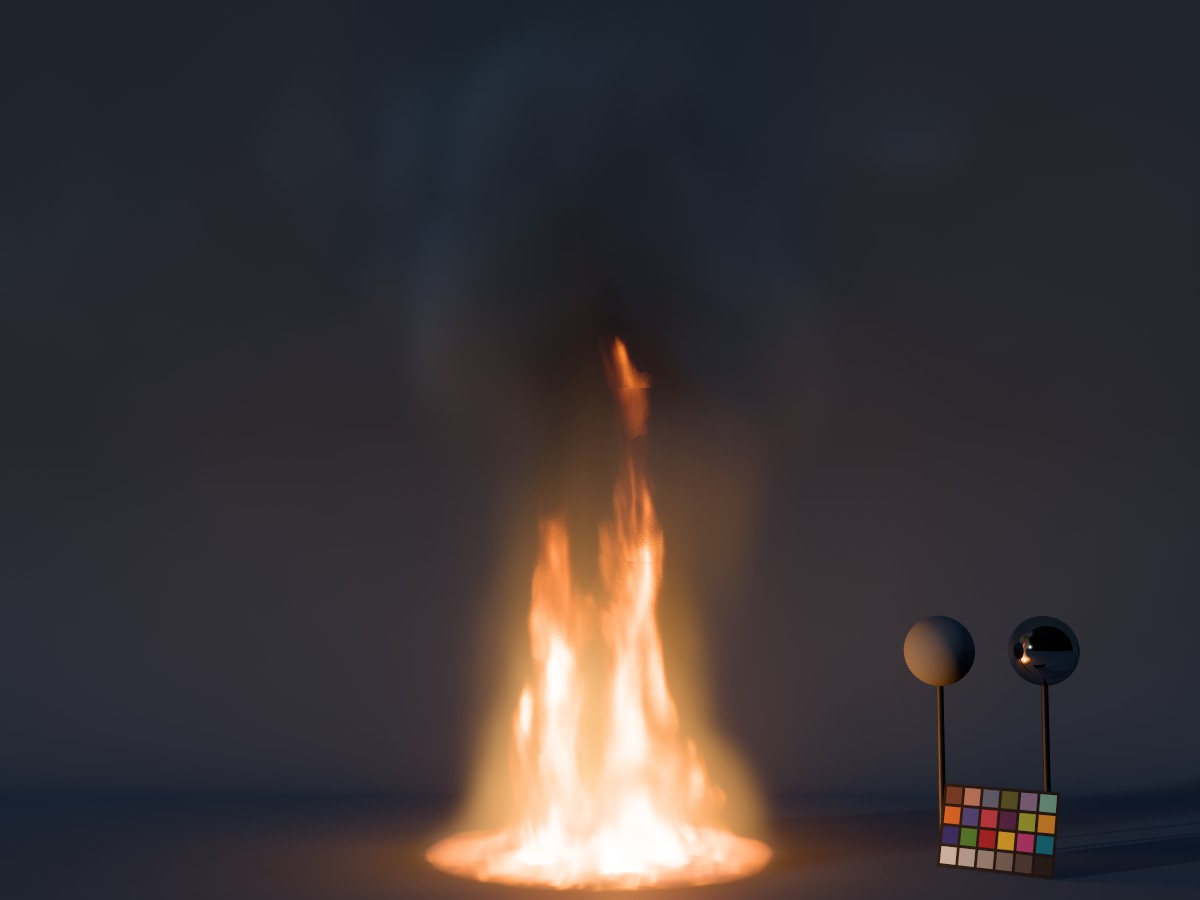
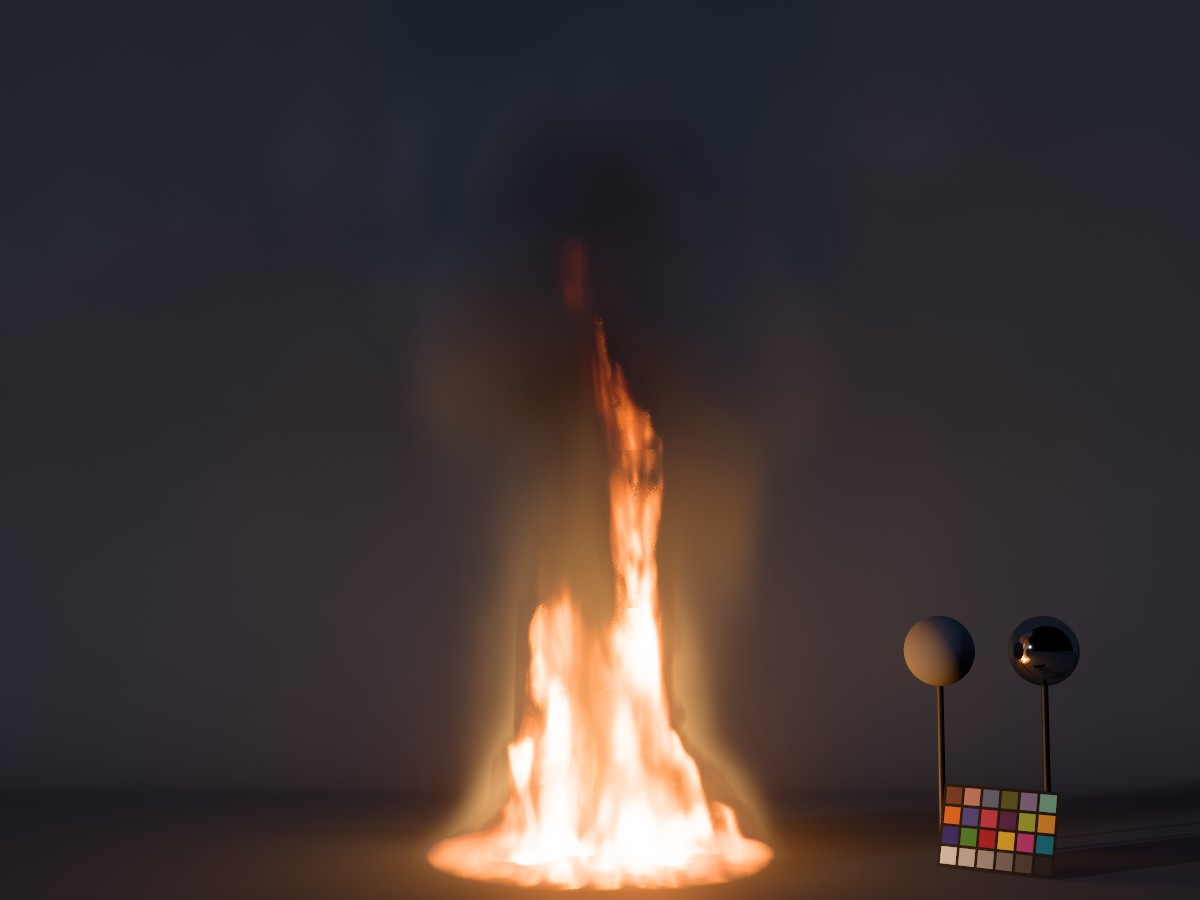
Pyro lab: the bonfire's flames and cyc as the path-traced reference has them
Split by the reference (now able to leave out all scattering in the gas: ptParts 16, development), the bonfire's
flames glowed as the reference's do; what they lacked was the light their soot scatters of its own glow. In a thick
flame the light about the soot nears its blackbody radiance from every side, so the flame glows at the full radiance
whatever its albedo (Kirchhoff); the live flames glowed only (1 - albedo) of it. Glowing soot now scatters
glow (1 - exp(-sig l)) of its own glow, l a bed radius, in place of that share of the fire's far light
(flameSelfLit), in the camera's march and the chrome ball's.

The cyc's wall stands as tall and wide as the view, so every point of the cyc sees the sky only in front (a
cosine-weighted (n.y + n.z) / 2 of it: half for the floor, which took all of it) and the cyc itself in the rest: the
floor lights the wall and the wall the floor (cycSeen), and the fire-lit floor about the fire, from the light volume's
bottom layer, lights the wall (cycFireBounce). The floor's light into the smoke takes the same half sky and the wall.

The accumulation blends in linear light, its clamp's range still found compressed: blended compressed, a flickering
flame averaged a sixth darker than its own frames, paused or running.

Against the reference, per unit of exposure (the probes now read the fire at the paused frame before the meter snaps,
and keep each trace's EV), bonfire regions deployed -> now: flames 0.80 -> 0.99, cyc 0.90 -> 0.95, far floor
[…]

Changed region(s): [[0.37, 0.3422, 0.6475, 0.9956], [0.4625, 0.28, 0.4933, 0.3422]]

diff --git a/components/PyroLab.tsx b/components/PyroLab.tsx
@@ -66,7 +66,7 @@ const TECH_NOTES: [string, string][] = [
   ],
   [
     'Flames',
-    'Most of a fire’s light is its soot’s glow. Hot soot emits what it absorbs times the blackbody radiance of its temperature (Kirchhoff’s law), so a flame’s colour and brightness follow from the simulated temperature and soot alone: Planck’s law through the CIE colour matching functions, in absolute units (a blackbody at 2042 K comes out at 600,000 cd/m², the old definition of the candle). The colours are worked in ACEScg, whose primaries hold a blackbody’s colour at every temperature a flame reaches, where Rec.709’s lose its blue below about 1900 K. The soot’s extinction is the measured 8.7 m²/g of flame smoke and its albedo 0.25, and it absorbs blue more than red (as 1/λ), so it reddens what shines through it. Below about 1000 K its glow is too faint to see, which is where the visible flame ends. A cell’s temperature is an average, and a blackbody’s glow climbs so steeply with temperature that the average glow is far from the glow at the average temperature (the turbulence-radiation interaction), so the renderer adds the temperature fluctuation finer than the grid: its size from the resolved temperature gradient, as large-eddy simulations model a subgrid variance (Pierce and Moin), only its shape from a noise that rises with the flames and churns (Flame detail scales it; 0 renders the cell averages). For the same reason, where fuel is burning the soot radiates at the temperature of the flame sheet it forms in, about 1400 K, rather than its cell’s mean: the burning happens in sheets far thinner than a cell, and the cell spreads their heat over all of it (a thin flame along a burning surface would otherwise never glow). The burning gives off light of its own too: molecules formed excited in the reactions give it up as CH’s blue at 431 nm, C2’s green Swan bands and a faint CO2 continuum (chemiluminescence), in proportion to the heat released. It is the blue of a gas flame, about a ten-thousandth of a lumen per watt of heat (an estimate: no measurement of it turned up), far fainter than glowing soot, so it shows only where there is no soot yet. And soot takes some 20 ms in the hot gas to form (Kumfer, Skeen and Axelbaum), so where burning has only begun, at the flame’s base, the gas is still clear. A wood fire’s soot hides nearly all of the blue at the grid’s scale; a fuel that makes no soot burns all blue (the Alcohol fire), too dim to see in daylight, as alcohol fires are. The fire lights its own smoke, the floor and everything near it: its emitted light is summed on the GPU every step in eight slices of its height, each a point light at its brightness-weighted centre, and each point of the smoke gathers them through the soot in the way, so dense smoke shadows the fire’s light as it does the sun’s; the floor and the balls take the same shadow. The light is summed as the flames are drawn, from the interpolated gas at eight points in each cell rather than each cell’s own temperature: the glow climbs so steeply with temperature that the hottest cells, at the bed, gave several times the light the flames show (the path-traced reference found it). Within a slice, its soot is mixed with its own glow, and the share of the glow that gets out is a glowing sphere’s of that optical depth (the escape probability).',
+    'Most of a fire’s light is its soot’s glow. Hot soot emits what it absorbs times the blackbody radiance of its temperature (Kirchhoff’s law), so a flame’s colour and brightness follow from the simulated temperature and soot alone: Planck’s law through the CIE colour matching functions, in absolute units (a blackbody at 2042 K comes out at 600,000 cd/m², the old definition of the candle). The colours are worked in ACEScg, whose primaries hold a blackbody’s colour at every temperature a flame reaches, where Rec.709’s lose its blue below about 1900 K. The soot’s extinction is the measured 8.7 m²/g of flame smoke and its albedo 0.25, and it absorbs blue more than red (as 1/λ), so it reddens what shines through it. Below about 1000 K its glow is too faint to see, which is where the visible flame ends. A cell’s temperature is an average, and a blackbody’s glow climbs so steeply with temperature that the average glow is far from the glow at the average temperature (the turbulence-radiation interaction), so the renderer adds the temperature fluctuation finer than the grid: its size from the resolved temperature gradient, as large-eddy simulations model a subgrid variance (Pierce and Moin), only its shape from a noise that rises with the flames and churns (Flame detail scales it; 0 renders the cell averages). For the same reason, where fuel is burning the soot radiates at the temperature of the flame sheet it forms in, about 1400 K, rather than its cell’s mean: the burning happens in sheets far thinner than a cell, and the cell spreads their heat over all of it (a thin flame along a burning surface would otherwise never glow). The burning gives off light of its own too: molecules formed excited in the reactions give it up as CH’s blue at 431 nm, C2’s green Swan bands and a faint CO2 continuum (chemiluminescence), in proportion to the heat released. It is the blue of a gas flame, about a ten-thousandth of a lumen per watt of heat (an estimate: no measurement of it turned up), far fainter than glowing soot, so it shows only where there is no soot yet. And soot takes some 20 ms in the hot gas to form (Kumfer, Skeen and Axelbaum), so where burning has only begun, at the flame’s base, the gas is still clear. A wood fire’s soot hides nearly all of the blue at the grid’s scale; a fuel that makes no soot burns all blue (the Alcohol fire), too dim to see in daylight, as alcohol fires are. The fire lights its own smoke, the floor and everything near it: its emitted light is summed on the GPU every step in eight slices of its height, each a point light at its brightness-weighted centre, and each point of the smoke gathers them through the soot in the way, so dense smoke shadows the fire’s light as it does the sun’s; the floor and the balls take the same shadow. The light is summed as the flames are drawn, from the interpolated gas at eight points in each cell rather than each cell’s own temperature: the glow climbs so steeply with temperature that the hottest cells, at the bed, gave several times the light the flames show (the path-traced reference found it). Within a slice, its soot is mixed with its own glow, and the share of the glow that gets out is a glowing sphere’s of that optical depth (the escape probability). Glowing soot also scatters its own glow: where it is thick the light about it nears its blackbody radiance, so a thick flame glows at the full radiance whatever its albedo (Kirchhoff’s law), where it glowed only the share its soot does not scatter (the bonfire’s flames, a fifth dark against the path-traced reference).',
   ],
   [
     'Detail',
@@ -87,11 +87,11 @@ const TECH_NOTES: [string, string][] = [
   ],
   [
     'Rendering',
-    'Each pixel marches through the volume and integrates each step in closed form, in photometric units (cd/m²), each colour channel on its own. Sunlight reaches every point through the optical depth toward the sun, recomputed each frame on a half-resolution grid from the smoke the camera sees (with the smoke upres on, its finer grid, averaged over the coarse grid’s cells); multiple-scattering octaves stand in for light bouncing inside the smoke, each weighted by the chance that light scattered once meets more smoke (toward the sun, up and down) and is scattered again rather than absorbed (its albedo), so pale steam takes far more of it than soot. The sky lights the smoke through the smoke around it (its mean transmittance in five directions), by the share of the scattering the sky fills (smoke that scatters forward, seen from below, takes more than half), and bounces inside it too; the floor lights it from below, as the floor straight under it is lit. The floor takes the smoke’s shadow and the fire’s light. Between cells the smoke and soot are sampled with a cubic B-spline (eight trilinear fetches placed so the hardware’s blend gives the spline’s weights, after Sigg and Hadwiger), smooth where trilinear interpolation creases at every cell face; the Shading tab switches back to trilinear, which renders in about two thirds of the time. Each frame starts its march at an offset from spatiotemporal blue noise (Wolfe, Morrical, Akenine-Möller and Ramamoorthi 2022), made for the lab by void and cluster: each frame’s offsets are blue noise in space, and each pixel’s offsets from frame to frame are blue noise in time, which cuts the noise of the first one to four accumulated frames by 9 to 16% against blue noise stepped by the golden ratio. Frames accumulate: each blends into a running history, first clamped to the range of the new frame’s neighbourhood so what moves is not smeared behind it, which averages the sampling noise away. A paused frame keeps accumulating until it settles.',
+    'Each pixel marches through the volume and integrates each step in closed form, in photometric units (cd/m²), each colour channel on its own. Sunlight reaches every point through the optical depth toward the sun, recomputed each frame on a half-resolution grid from the smoke the camera sees (with the smoke upres on, its finer grid, averaged over the coarse grid’s cells); multiple-scattering octaves stand in for light bouncing inside the smoke, each weighted by the chance that light scattered once meets more smoke (toward the sun, up and down) and is scattered again rather than absorbed (its albedo), so pale steam takes far more of it than soot. The sky lights the smoke through the smoke around it (its mean transmittance in five directions), by the share of the scattering the sky fills (smoke that scatters forward, seen from below, takes more than half), and bounces inside it too; the floor lights it from below, as the floor straight under it is lit. The floor takes the smoke’s shadow and the fire’s light. Between cells the smoke and soot are sampled with a cubic B-spline (eight trilinear fetches placed so the hardware’s blend gives the spline’s weights, after Sigg and Hadwiger), smooth where trilinear interpolation creases at every cell face; the Shading tab switches back to trilinear, which renders in about two thirds of the time. Each frame starts its march at an offset from spatiotemporal blue noise (Wolfe, Morrical, Akenine-Möller and Ramamoorthi 2022), made for the lab by void and cluster: each frame’s offsets are blue noise in space, and each pixel’s offsets from frame to frame are blue noise in time, which cuts the noise of the first one to four accumulated frames by 9 to 16% against blue noise stepped by the golden ratio. Frames accumulate: each blends into a running history, first clamped to the range of the new frame’s neighbourhood so what moves is not smeared behind it, which averages the sampling noise away. The blend is in linear light (blended in a compressed one, as is common to keep bright pixels from flickering, a flame averaged a sixth darker than its own frames). A paused frame keeps accumulating until it settles.',
   ],
   [
     'Camera',
-    'Exposed like a real camera. Light is set as a light meter reads it, the sun and sky as incident readings (2.5 × 2^EV lux), and the exposure is the camera’s EV at ISO 100, saturating at 1.2 × 2^EV cd/m² (Frostbite’s physically based camera). The white balance is a Bradford chromatic adaptation from a blackbody of the chosen temperature to the display’s white, the step Nguyen and colleagues took for fire; then the Lookdev lab’s own view transforms: ACES 2.0 (baked from OpenColorIO 2.5) by default, or AgX, Khronos PBR Neutral or a plain sRGB curve. The shutter is a film camera’s at 24 frames a second, 180 degrees by default (open 1/48 s): each sample along a ray takes its own moment within it and reads the gas where the flow had it then, so fast flames streak as they do on film. The lens scatters a few percent of the light it passes (4% by default) into a wide, soft glare, by a chain of blurs that keeps the light’s energy (Jimenez’s, from Call of Duty), which shows only around what is far brighter than its surroundings, as the flames’ cores are. Auto exposure meters the scene as a camera in program mode would: the sun and sky as an incident meter reads them, but never brighter than the fire allows (read from its flames as they are drawn: EV 7.5 to 8.5 for an 80 kW campfire as it puffs, a third of a stop more for each doubling of its light), eased over a second so the flames’ puffing does not pump it; its brightest flames saturate to yellow-white, as they do in photographs. The background is a studio’s black, or the sky (its radiance the sky’s illuminance over π, a little brighter toward the horizon) over a floor that runs into the horizon’s haze, or the Lookdev lab’s cyc in its charcoal or gray, the floor sweeping up into a wall behind the fire, lit by the fire too.',
+    'Exposed like a real camera. Light is set as a light meter reads it, the sun and sky as incident readings (2.5 × 2^EV lux), and the exposure is the camera’s EV at ISO 100, saturating at 1.2 × 2^EV cd/m² (Frostbite’s physically based camera). The white balance is a Bradford chromatic adaptation from a blackbody of the chosen temperature to the display’s white, the step Nguyen and colleagues took for fire; then the Lookdev lab’s own view transforms: ACES 2.0 (baked from OpenColorIO 2.5) by default, or AgX, Khronos PBR Neutral or a plain sRGB curve. The shutter is a film camera’s at 24 frames a second, 180 degrees by default (open 1/48 s): each sample along a ray takes its own moment within it and reads the gas where the flow had it then, so fast flames streak as they do on film. The lens scatters a few percent of the light it passes (4% by default) into a wide, soft glare, by a chain of blurs that keeps the light’s energy (Jimenez’s, from Call of Duty), which shows only around what is far brighter than its surroundings, as the flames’ cores are. Auto exposure meters the scene as a camera in program mode would: the sun and sky as an incident meter reads them, but never brighter than the fire allows (read from its flames as they are drawn: EV 7.5 to 8.5 for an 80 kW campfire as it puffs, a third of a stop more for each doubling of its light), eased over a second so the flames’ puffing does not pump it; its brightest flames saturate to yellow-white, as they do in photographs. The background is a studio’s black, or the sky (its radiance the sky’s illuminance over π, a little brighter toward the horizon) over a floor that runs into the horizon’s haze, or the Lookdev lab’s cyc in its charcoal or gray, the floor sweeping up into a wall behind the fire, lit by the fire too. The cyc’s wall hides the half of the sky behind it from the cyc itself, which sees the rest of the cyc there: the floor lights the wall and the wall the floor, and the fire-lit floor lights the wall behind the fire.',
   ],
   [
     'Environments',
@@ -103,7 +103,7 @@ const TECH_NOTES: [string, string][] = [
   ],
   [
     'Path-traced reference',
-    'Paused, the Path trace button traces the same frame with its light carried exactly, one path a pixel each frame, averaged, behind a wipe against the live render (drag it). The gas is the live render’s own, step for step: its density, detail and subgrid flame temperature, the soot formed by now and the flame’s blue light, each path at its own moment of the shutter. What the reference carries exactly is what the live render takes shortcuts with: light scattered any number of times through the smoke (the live render folds multiple scattering into octaves of the sun’s light); the fire’s light from the flames themselves, shadowed by the smoke on the way (the live render’s is eight point lights through a light volume at half resolution); the sky through the smoke in every direction (not only straight up); an HDR map in full (not nine spherical harmonics). At every scattering and surface a path samples the sun’s disc, a map’s key or the rig’s softboxes, and the flames: a point drawn in one of eight slices of the fire’s height by its light, chosen from eight candidates in proportion to what each would bring (resampled importance sampling, after Talbot, Cline and Egbert). Paths end by Russian roulette, and the reference stops at 4,096 paths a pixel. The surfaces are the live render’s materials, simplified (the chrome ball a mirror, the rest a matte base under a glossy layer). Checked with it, the live render’s fire light is now within about 45% of the reference’s across the presets (an oil fire in daylight within 15%; a campfire’s smoke and floor up to 45% darker), where it was up to seven times too bright. The smoke lit by the sun was 30 to 60% too bright, dark smoke the most, from the octaves, which added the same three quarters again to thin smoke as to thick and to soot as to steam. Split by where the light comes from (the reference can leave out the floor, the sky or the sun, or keep only light scattered once), the smoke’s light showed four more gaps. Its shadows came from the coarse grid while the camera saw the finer upres smoke, so the densest smoke caught a third too much sun. The sky came through the depth straight up only, so the middle of a plume took a fifth too much and the smoke under its cap a third too little. And the sky’s light scattered more than once (5 to 10% of a plume’s light) and the floor’s (1 to 9%) were missing. With those fixed and the octaves fitted to plumes of albedo 0.2, 0.6 and 0.95, a plume’s thin edges are within 8% of the reference, where they were 10% short, and the error over the smoke presets falls by half to 70% (a little in the fire presets, where the flames’ own gaps remain).',
+    'Paused, the Path trace button traces the same frame with its light carried exactly, one path a pixel each frame, averaged, behind a wipe against the live render (drag it). The gas is the live render’s own, step for step: its density, detail and subgrid flame temperature, the soot formed by now and the flame’s blue light, each path at its own moment of the shutter. What the reference carries exactly is what the live render takes shortcuts with: light scattered any number of times through the smoke (the live render folds multiple scattering into octaves of the sun’s light); the fire’s light from the flames themselves, shadowed by the smoke on the way (the live render’s is eight point lights through a light volume at half resolution); the sky through the smoke in every direction (not only straight up); an HDR map in full (not nine spherical harmonics). At every scattering and surface a path samples the sun’s disc, a map’s key or the rig’s softboxes, and the flames: a point drawn in one of eight slices of the fire’s height by its light, chosen from eight candidates in proportion to what each would bring (resampled importance sampling, after Talbot, Cline and Egbert). Paths end by Russian roulette, and the reference stops at 4,096 paths a pixel. The surfaces are the live render’s materials, simplified (the chrome ball a mirror, the rest a matte base under a glossy layer). Checked with it, the live render’s fire light is now within about 45% of the reference’s across the presets (an oil fire in daylight within 15%; a campfire’s smoke and floor up to 45% darker), where it was up to seven times too bright. The smoke lit by the sun was 30 to 60% too bright, dark smoke the most, from the octaves, which added the same three quarters again to thin smoke as to thick and to soot as to steam. Split by where the light comes from (the reference can leave out the floor, the sky or the sun, or keep only light scattered once), the smoke’s light showed four more gaps. Its shadows came from the coarse grid while the camera saw the finer upres smoke, so the densest smoke caught a third too much sun. The sky came through the depth straight up only, so the middle of a plume took a fifth too much and the smoke under its cap a third too little. And the sky’s light scattered more than once (5 to 10% of a plume’s light) and the floor’s (1 to 9%) were missing. With those fixed and the octaves fitted to plumes of albedo 0.2, 0.6 and 0.95, a plume’s thin edges are within 8% of the reference, where they were 10% short, and the error over the smoke presets falls by half to 70%. On the bonfire, with scattering in the gas left out of both, the live flames’ glow matched the reference’s; what they lacked was the light their soot scatters of its own glow, and the cyc’s floor took the whole sky though the wall hides half of it, and no light from the wall. With those in, the bonfire’s flames are within 2% of the reference and its cyc within 5%, where they were 20% and 10% short, and its far floor, a fifth too bright, is within 5%; the wall and smoke just behind the fire are still about a sixth dark. A fire in wind’s error falls by more than two thirds.',
   ],
   [
     'Export',

diff --git a/components/pyro/wgsl.ts b/components/pyro/wgsl.ts
@@ -3022,6 +3022,52 @@ fn ballSurface(ph: vec3<f32>, rd: vec3<f32>, ch: vec3<f32>, fireColour: vec3<f32
 }
 
 // The floor's (or the cyc's) light toward the camera, cd/m2: at pf, facing nf, met tFloor along rd.
+// The cyc (the gray and charcoal backgrounds): its wall stands as tall and wide as the view behind the fire, so every
+// point of it sees the sky only in front, the quarter of directions up and toward the camera (a cosine-weighted
+// (n.y + n.z) / 2 of it: half for the floor and for the wall, where the open floor would see all of it), and the rest
+// of what it sees is the cyc itself. Against the path-traced reference the floor in front took the whole sky and came
+// out up to a quarter too bright, and the wall, without the floor's light, a tenth too dark.
+fn cycOn() -> bool { return R.scene.x > 1.5 && !envOn(); }
+// What the rest of the cyc gives a point p of it facing n (lux on that rest): the floor sees the wall, lit by its open
+// quarter of sky, the sun and the fire straight on (at the fire's height behind p); the wall sees the floor, lit by the
+// sky and the sun (the fire's light on the floor comes in through cycFireBounce); the sweep between, some of each.
+fn cycSeen(p: vec3<f32>, n: vec3<f32>) -> vec3<f32> {
+  let other = vec3<f32>(0.0, n.z, n.y);
+  var e = R.skyCol.xyz * 0.5 + R.sunCol.xyz * max(dot(other, R.sunDir.xyz), 0.0);
+  if (R.fire.x > 0.5) {
+    let c = fireLight[1].xyz;
+    let d = c - vec3<f32>(p.x, c.y, CYC_Z - CYC_R);
+    let d2 = dot(d, d) + BAND_R2;
+    e += other.z * fireLight[0].xyz * P.grid.x * P.grid.x * P.grid.x * max(d.z, 0.0) / (sqrt(d2) * d2);
+  }
+  return e;
+}
+// The fire-lit floor about the fire as a light on a point p facing n (lux): a 6 x 4 grid of floor patches, 3 m across
+// the fire's centre by the domain's depth, each a Lambertian of the cyc's albedo lit by the fire's light on the floor
+// there (the light volume's bottom layer). (The wall behind a bonfire takes a tenth to a fifth of its light so.)
+fn cycFireBounce(p: vec3<f32>, n: vec3<f32>, fireColour: vec3<f32>) -> vec3<f32> {
+  if (R.fire.x < 0.5) { return vec3<f32>(0.0); }
+  let lo = P.origin.xyz;
+  let hi = domainHi();
+  let c = fireLight[1].xyz;
+  let fy = 0.5 / f32(textureDimensions(light2).y);
+  let pw = 0.5;
+  let pd = (hi.z - lo.z) / 4.0;
+  var e = 0.0;
+  for (var i = 0; i < 6; i++) {
+    for (var j = 0; j < 4; j++) {
+      let q = vec3<f32>(c.x + (f32(i) - 2.5) * pw, 0.0, lo.z + (f32(j) + 0.5) * pd);
+      let ux = (q.x - lo.x) / (hi.x - lo.x);
+      if (ux < 0.0 || ux > 1.0) { continue; }
+      let ef = 1000.0 * textureSampleLevel(light2, samp, vec3<f32>(ux, fy, (q.z - lo.z) / (hi.z - lo.z)), 0.0).w;
+      let d = q - p;
+      let d2 = max(dot(d, d), 0.04);
+      e += ef * max(-d.y, 0.0) * max(dot(n, d), 0.0) / (d2 * d2);
+    }
+  }
+  return fireColour * R.floorCol.x * INV_PI * e * pw * pd;
+}
+
 fn floorLight(pf: vec3<f32>, nf: vec3<f32>, rd: vec3<f32>, tFloor: f32, ch: vec3<f32>, fireColour: vec3<f32>) -> vec3<f32> {
   let sun = R.sunDir.xyz;
   let rimDir = R.rimDir.xyz;
@@ -3071,9 +3117,16 @@ fn floorLight(pf: vec3<f32>, nf: vec3<f32>, rd: vec3<f32>, tFloor: f32, ch: vec3
   }
   if (seen > 0.0) { fireLux *= clamp(1000.0 * textureSampleLevel(light, samp, uvwOf(q), 0.0).w / seen, 0.0, 1.0); }
   let fireE = fireColour * fireLux;
-  // The sky on a surface facing nf: the flat sky's open half (all of it on the floor), or the environment.
-  let skyE = select(R.skyCol.xyz * (0.5 + 0.5 * nf.y), envIrradiance(nf), envOn());
-  var E = R.sunCol.xyz * max(dot(nf, sun), 0.0) * shadow + skyE * skyVis * ballSky + fireE;
+  // The sky on a surface facing nf: the flat sky's open half (all of it on the floor; on the cyc, its open quarter, and
+  // the rest of the cyc), or the environment.
+  var skyShare = 0.5 + 0.5 * nf.y;
+  var bounce = vec3<f32>(0.0);
+  if (cycOn()) {
+    skyShare = 0.5 * (max(nf.y, 0.0) + max(nf.z, 0.0));
+    bounce = R.floorCol.xyz * (1.0 - skyShare) * cycSeen(pf, nf) + cycFireBounce(pf, nf, fireColour);
+  }
+  let skyE = select(R.skyCol.xyz * skyShare, envIrradiance(nf), envOn());
+  var E = R.sunCol.xyz * max(dot(nf, sun), 0.0) * shadow + skyE * skyVis * ballSky + fireE + bounce;
   if (rimOn()) { E += R.rimCol.xyz * max(dot(nf, rimDir), 0.0) * rimShadow(pf, ch) * refShadow(pf, rimDir, 1e9, 0.01, 0.15, -1); }
   var floorL = R.floorCol.xyz * INV_PI * E * fade;
   // Under the sky, the far floor fades into the horizon's haze (aerial perspective, over some 40 m).
@@ -3140,7 +3193,11 @@ fn mirrorView(ro: vec3<f32>, rd: vec3<f32>, jitter: f32, ch: vec3<f32>, fireColo
         if (rimOn()) { S += albedo * R.rimCol.xyz * INV_4PI * exp(-near.tauRim * ch) * pr0; }
         var B = vec3<f32>(0.0);
         let rise = riseOf(s4);
-        if (R.fire.x > 0.5 && (rise > 400.0 || heat > 0.2)) { B = (1.0 - albedo) * planck(radiatingKelvin(T_AMB + rise, heat)); }
+        if (R.fire.x > 0.5 && (rise > 400.0 || heat > 0.2)) {
+          let glow = planck(radiatingKelvin(T_AMB + rise, heat));
+          B = (1.0 - albedo) * glow;
+          S += albedo * flameSelfLit(sig, ch, glow, fireColour * 1000.0 * L.w);
+        }
         let Ts = exp(-sig * ch * ds);
         col += T * (1.0 - Ts) * (S + B);
         T *= Ts;
@@ -3220,6 +3277,16 @@ fn octaves(tauS: vec3<f32>, p0: f32, p1: f32, p2: f32, f: f32, albedo: f32, g: f
   return exp(-tauS) * p0 + a * exp(-b * tauS) * p1 + a * a * exp(-b * b * tauS) * p2;
 }
 
+// Kirchhoff in the flames: soot that glows sits in its own glow, which it scatters as it does any light. Where the soot
+// is thick the light about it nears its blackbody radiance from every side (in a thick flame the radiance is the
+// blackbody's, whatever the albedo), and the fire's light from farther off (fireE, lux) is hidden by it; over l, a bed
+// radius, the light it scatters toward the camera (per unit of albedo, cd/m2) takes glow (1 - exp(-sig l)) of the near
+// glow in place of that share of the far light. Without it a thick flame glowed only (1 - albedo) of its blackbody: the
+// bonfire's flames came out a fifth to two fifths dark against the path-traced reference.
+fn flameSelfLit(sig: f32, ch: vec3<f32>, glow: vec3<f32>, fireE: vec3<f32>) -> vec3<f32> {
+  return (1.0 - exp(-sig * ch * max(P.src.w, 0.1))) * (glow - fireE * INV_4PI);
+}
+
 // The share of a Henyey-Greenstein lobe (anisotropy g) about a direction of elevation sine mu that lies in the upper
 // hemisphere: the lobe's Legendre series against the hemisphere's, 1/2 + 3/4 g mu - 7/16 g^3 P3(mu). Smoke that scatters
 // forward, seen from below against the sky, takes more than half the sky's light toward the camera (a plume's top, a
@@ -3251,7 +3318,10 @@ fn smokeAround(uvw: vec3<f32>, wm: vec3<f32>, L: vec4<f32>, rd: vec3<f32>, g: f3
     let F2 = textureSampleLevel(light2, samp, uvF, 0.0);
     let r2 = R.floorCol.w * R.floorCol.w;
     let fade = select(exp(-dot(wm.xz, wm.xz) / r2) / (1.0 + wm.y * wm.y / r2), 1.0, R.scene.x > 0.5);
-    let floorL = R.floorCol.xyz * INV_PI * fade * (R.sunCol.xyz * F2.z + R.skyCol.xyz * exp(-F2.y * ch) + fireColour * 1000.0 * F2.w);
+    var floorE = R.sunCol.xyz * F2.z + R.skyCol.xyz * exp(-F2.y * ch) + fireColour * 1000.0 * F2.w;
+    // (On the cyc the floor sees half the sky, and the wall.)
+    if (cycOn()) { floorE += R.skyCol.xyz * exp(-F2.y * ch) * -0.5 + R.floorCol.xyz * 0.5 * cycSeen(vec3<f32>(wm.x, 0.0, wm.z), vec3<f32>(0.0, 1.0, 0.0)); }
+    let floorL = R.floorCol.xyz * INV_PI * fade * floorE;
     amb += floorL * (1.0 - domeShare(rd.y, g)) * exp(-tauDown * ch);
   }
   return Around(amb, f, tauDown, L2.x);
@@ -3390,7 +3460,9 @@ fn fs(@builtin(position) fc: vec4<f32>) -> @location(0) vec4<f32> {
         if (R.fire.x > 0.5 && (rise > 400.0 || heat > 0.2)) {
           var kelvin = radiatingKelvin(T_AMB + rise, heat);
           if (R.size.w > 0.0) { kelvin = max(T_AMB, kelvin + subgridKelvin(wm, uvm, rot)); }
-          B = (1.0 - albedo) * planck(kelvin);
+          let glow = planck(kelvin);
+          B = (1.0 - albedo) * glow;
+          S += albedo * flameSelfLit(sig, ch, glow, fireE);
         }
         // Integrated exactly over the step for constant properties (Hillaire 2015).
         let Ts = exp(-sig * ch * ds);
@@ -3862,7 +3934,7 @@ fn pt(@builtin(position) fc: vec4<f32>) -> @location(0) vec4<f32> {
           let sm = max(sc.x, max(sc.y, sc.z));
           let q = 1.0 - exp(-sm * ds);
           if (rand() < q) {
-            if (lastLeg) { dead = true; break; }
+            if (lastLeg || (Q.parts & 16u) != 0u) { dead = true; break; }
             // A collision, somewhere in the step: scattered (the albedo's share; the rest absorbed, in the weight).
             let tc = t + min(-log(max(1.0 - rand() * q, 1e-7)) / sm, ds);
             beta *= albedo * (1.0 - Ts) / q;
@@ -3888,7 +3960,7 @@ fn pt(@builtin(position) fc: vec4<f32>) -> @location(0) vec4<f32> {
       }
     }
     // (Development, Q.parts: 1 no light off the floor but the camera's own sight of it, 2 single scattering in the gas,
-    // 4 no sky, 8 no lights.)
+    // 4 no sky, 8 no lights, 16 no scattering in the gas: its glow, dimmed.)
     if (dead) { break; }
     if (scattered && (Q.parts & 2u) != 0u) { lastLeg = true; }
     if (!scattered) {
@@ -4008,9 +4080,11 @@ fn fs(@builtin(position) fc: vec4<f32>) -> @location(0) vec4<f32> {
 
 // 11. Temporal accumulation, then the camera. Each frame's march is blended into a running history, which averages
 // away the sampling noise (and, with the motion blur, the shutter's moments); the history is first clamped to the range
-// of the current frame's 3 x 3 neighbourhood (in a luminance-compressed space, so a bright flame does not dominate), so
-// what moves or flickers is not smeared behind it. Then the lens's glare (GLARE), and DISPLAY: the white balance, the
-// view transform (the Lookdev lab's own, viewTransforms.ts: ACES 2.0 by default) and a dither against banding.
+// of the current frame's 3 x 3 neighbourhood (found in a luminance-compressed space, so a bright flame does not set it),
+// so what moves or flickers is not smeared behind it, and the blend is in linear light. (Blended compressed, a
+// flickering flame averaged a sixth darker than its frames do.) Then the lens's glare (GLARE), and DISPLAY: the white
+// balance, the view transform (the Lookdev lab's own, viewTransforms.ts: ACES 2.0 by default) and a dither against
+// banding.
 export const RESOLVE = /* wgsl */ `
 ${SIM_COMMON}
 ${RENDER_COMMON}
@@ -4041,12 +4115,11 @@ fn fs(@builtin(position) fc: vec4<f32>) -> @location(0) vec4<f32> {
       hi = max(hi, q);
     }
   }
-  var blended = cur;
   if (T.x > 0.5) {
     let h = clamp(squash(textureLoad(history, p, 0).xyz), lo, hi);
-    blended = mix(h, cur, T.y);
+    return vec4<f32>(mix(unsquash(h), unsquash(cur), T.y), 1.0);
   }
-  return vec4<f32>(unsquash(blended), 1.0);
+  return vec4<f32>(unsquash(cur), 1.0);
 }
 `
 

diff --git a/components/pyro/engine.ts b/components/pyro/engine.ts
@@ -608,7 +608,8 @@ export class PyroEngine {
   private wipeBuf: GPUBuffer
   private pt = { on: false, n: 0, idx: 0, wipe: 0.5, key: '', frame: 0 }
   // (Development: light the reference leaves out, to split its light by where it comes from: 1 the floor's but for the
-  // camera's own sight of it, 2 all but single scattering in the gas, 4 the sky's, 8 the lights'; set before tracing.)
+  // camera's own sight of it, 2 all but single scattering in the gas, 4 the sky's, 8 the lights', 16 all scattering in
+  // the gas (its glow alone, dimmed); set before tracing.)
   ptParts = 0
   private ptLights = new Float32Array(24)
   private ptT: { targets: Targets; upres: boolean; accum: [GPUTexture, GPUTexture]; comp: GPUTexture; trace: [GPUBindGroup, GPUBindGroup]; composite: GPUBindGroup[][]; display: GPUBindGroup } | null = null
@@ -1906,8 +1907,8 @@ export class PyroEngine {
     }
     const usage = GPUTextureUsage.RENDER_ATTACHMENT | GPUTextureUsage.TEXTURE_BINDING
     const tex = (more = 0) => this.device.createTexture({ size: [w, h], format: 'rgba16float', usage: usage | more })
-    const hdr = tex()
-    // (The history is readable, for the probes that compare it with the path-traced reference.)
+    // (The frame and its history are readable, for the probes that compare them with the path-traced reference.)
+    const hdr = tex(GPUTextureUsage.COPY_SRC)
     const hist: [GPUTexture, GPUTexture] = [tex(GPUTextureUsage.COPY_SRC), tex(GPUTextureUsage.COPY_SRC)]
     const gw = Math.max(1, w >> 1)
     const gh = Math.max(1, h >> 1)
@@ -1976,6 +1977,25 @@ export class PyroEngine {
     }
     draw(screen.createView(), p.display, t.display[next], false, stamp(true, true))
     this.histIndex = next
+  }
+
+  // (Development: the fire's sums again for the frame as it stands, for the probes, which read them at a paused frame.)
+  async resumFire() {
+    const g = this.grids!
+    const p = this.pipes!
+    const [nx, ny, nz] = g.n
+    const enc = this.device.createCommandEncoder()
+    const pass = enc.beginComputePass()
+    pass.setPipeline(p.fireSum)
+    pass.setBindGroup(0, g.bg.fireSum)
+    pass.dispatchWorkgroups(Math.ceil(nx / 4), Math.ceil(ny / 4), Math.ceil(nz / 4))
+    pass.setPipeline(p.fireTotal)
+    pass.setBindGroup(0, g.bg.fireTotal)
+    pass.dispatchWorkgroups(1 + FIRE_BANDS, 1, 1)
+    pass.end()
+    this.device.queue.submit([enc.finish()])
+    await this.device.queue.onSubmittedWorkDone()
+    this.lightDirty = true
   }
 
   private upresActive() {
